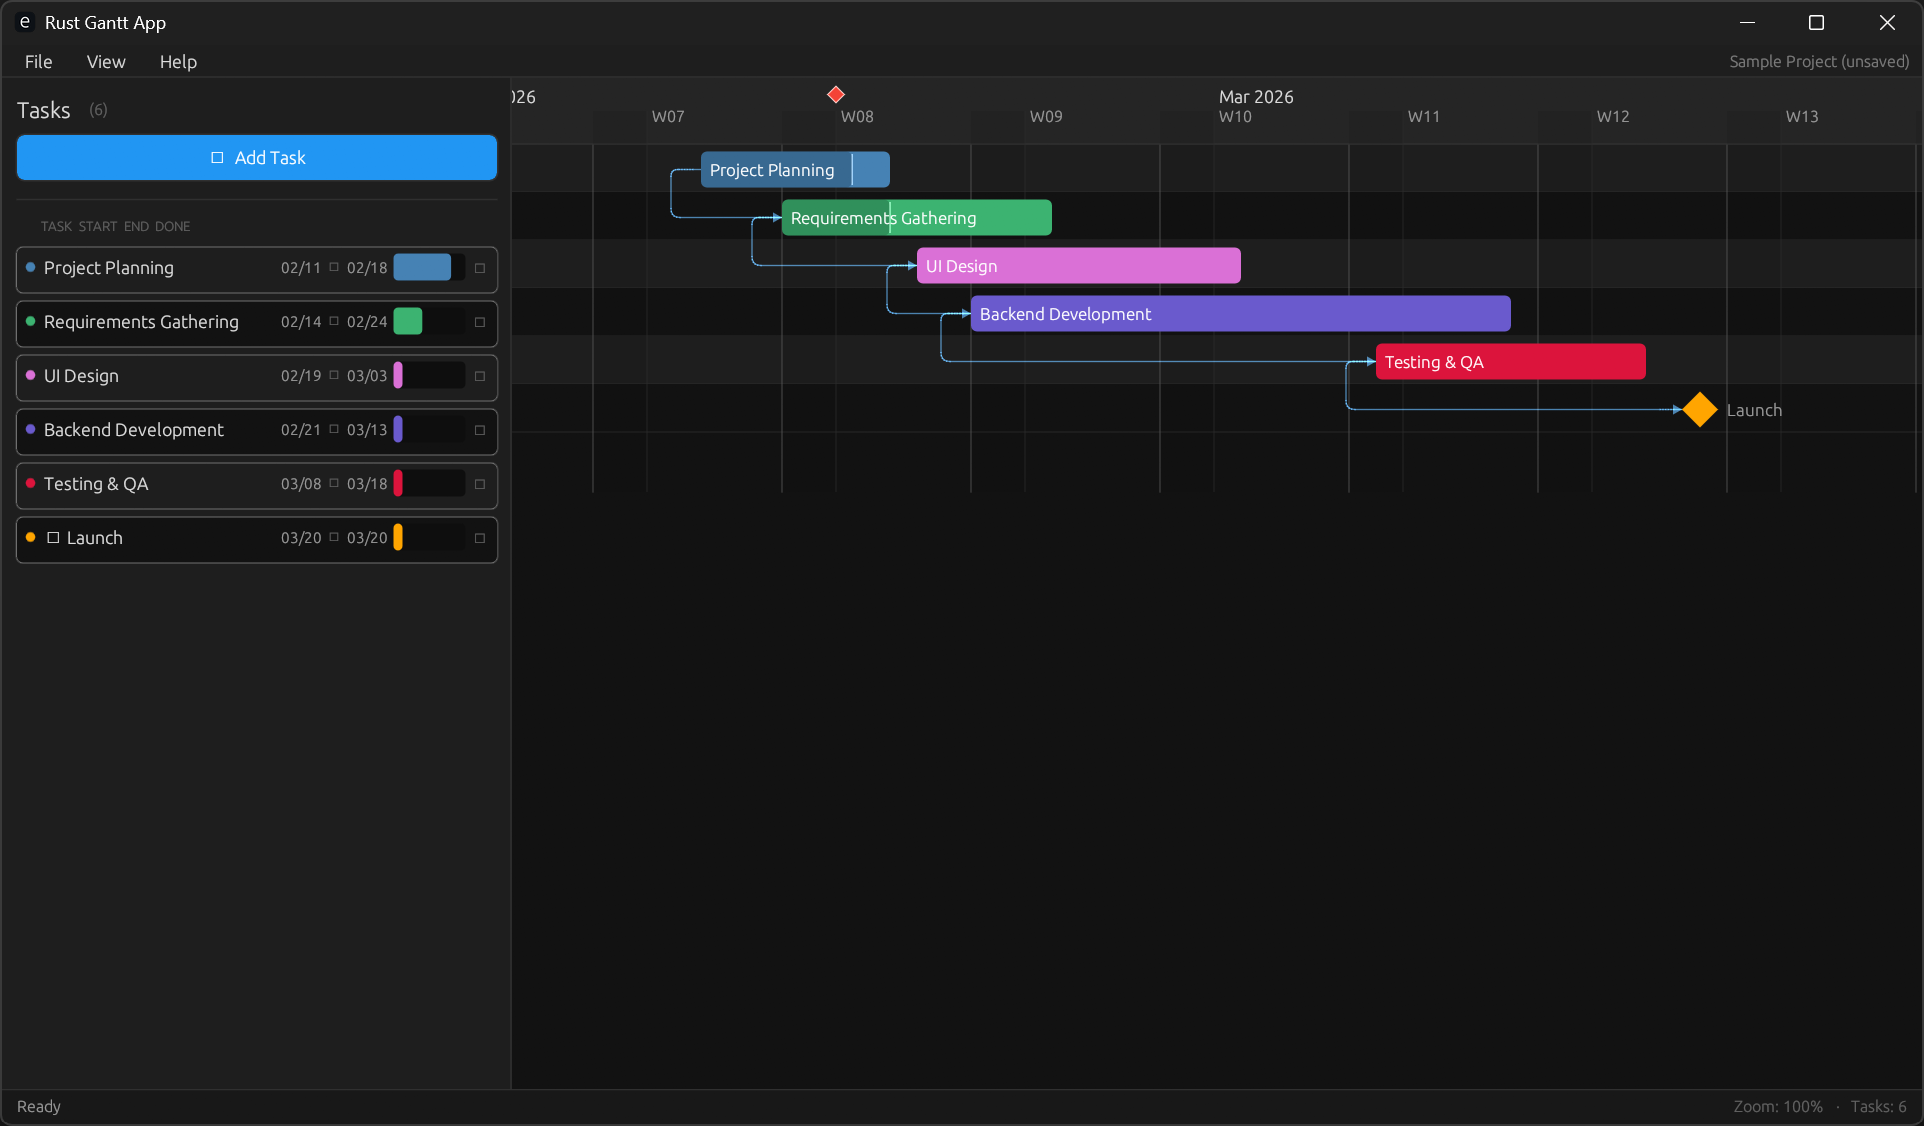
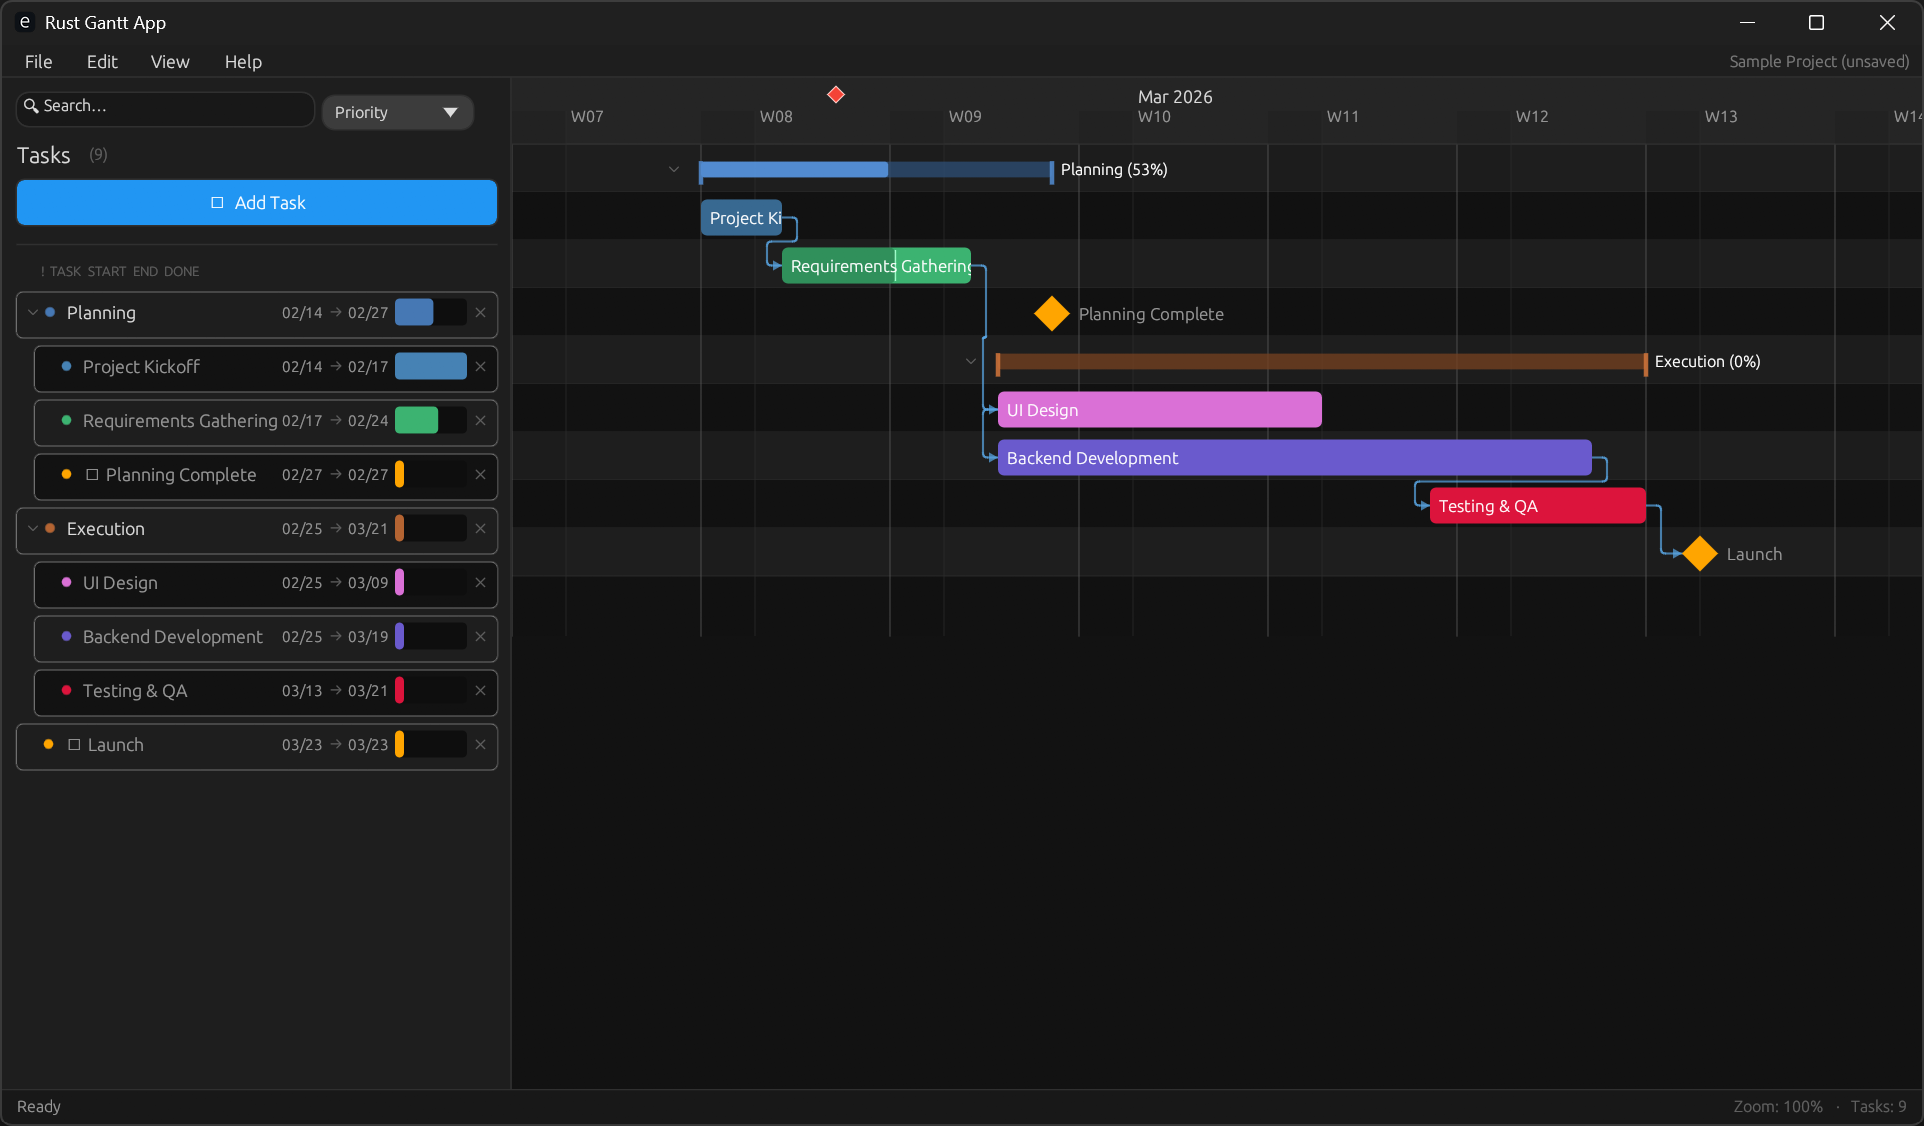
release: v0.2.0

diff --git a/src/ui/task_editor.rs b/src/ui/task_editor.rs
@@ -159,7 +159,7 @@ pub fn show_task_editor(
 
         // ── Dates ───────────────────────────────────────────────────
         // For parent tasks, dates are auto-calculated from children (read-only).
-        let is_parent_task = all_tasks.iter().any(|t| t.parent_id == Some(task_id));
+        let is_parent_task = task.has_children(all_tasks);
         if is_parent_task {
             ui.label(RichText::new("Dates").size(10.0).color(theme::text_dim()).strong());
             ui.horizontal(|ui| {
@@ -418,7 +418,7 @@ pub fn show_task_editor(
                 if t.id == task_id { return false; }
                 if already_linked.contains(&t.id) { return false; }
                 // Don't link to/from summary (parent) tasks
-                let t_is_parent = all_tasks.iter().any(|c| c.parent_id == Some(t.id));
+                let t_is_parent = t.has_children(all_tasks);
                 if t_is_parent { return false; }
                 // If this task is a child, restrict to siblings (same parent)
                 if let Some(my_parent) = task.parent_id {

diff --git a/src/app.rs b/src/app.rs
@@ -420,10 +420,19 @@ impl GanttApp {
     pub fn delete_task(&mut self, id: Uuid) {
         self.undo_history.push(&self.project.tasks, &self.project.dependencies);
         // Also delete all children of this task
-        let children_ids: Vec<Uuid> = self.project.tasks.iter()
-            .filter(|t| t.parent_id == Some(id))
-            .map(|t| t.id)
-            .collect();
+        let children_ids: Vec<Uuid> = self
+            .project
+            .tasks
+            .iter()
+            .find(|t| t.id == id)
+            .map(|parent| {
+                parent
+                    .children_ids(&self.project.tasks)
+                    .into_iter()
+                    .map(|child| child.id)
+                    .collect()
+            })
+            .unwrap_or_default();
         self.project.tasks.retain(|t| t.id != id && t.parent_id != Some(id));
         self.project.dependencies.retain(|d| {
             d.from_task != id && d.to_task != id

diff --git a/src/ui/gantt_chart.rs b/src/ui/gantt_chart.rs
@@ -236,7 +236,7 @@ pub fn show_gantt_chart(
                 // Safety: split borrow so we can read siblings while mutating task.
                 let task_id = tasks[task_i].id;
                 let task_parent_id = tasks[task_i].parent_id;
-                let is_parent_task = tasks.iter().any(|t| t.parent_id == Some(task_id));
+                let is_parent_task = tasks[task_i].has_children(tasks);
 
                 let y = *animated_row_y.get(&task_id).unwrap_or(
                     &(origin.y + hh + vis_i as f32 * (row_height + row_padding) + row_padding),

diff --git a/src/ui/task_table.rs b/src/ui/task_table.rs
@@ -139,7 +139,7 @@ pub fn show_task_table(
                 }
 
                 let is_selected = selected_task == Some(task.id);
-                let is_parent = tasks.iter().any(|t| t.parent_id == Some(task.id));
+                let is_parent = task.has_children(tasks);
                 let is_child = task.parent_id.is_some();
                 let is_overdue =
                     !task.is_milestone && task.end < today && task.progress < 1.0;

diff --git a/CHANGELOG.md b/CHANGELOG.md
@@ -1,0 +1,35 @@
+# Changelog
+
+All notable changes to this project are documented in this file.
+
+## [0.2.0] - 2026-02-19
+
+### Added
+
+- Task hierarchy support with parent/child relationships (one nesting level).
+- Summary (parent) bars rendered as bracket-style bars with aggregated progress.
+- Collapse/expand controls for parent groups in both chart and task table.
+- Right-click task context menu actions for adding subtasks and deleting tasks/groups.
+- Subtask creation flow that inserts under the parent and keeps grouped ordering.
+- Dependency picker in the task editor with type selection (FS/SS/FF/SF).
+- Dependency creation from the editor with scoped candidates:
+  - Child task: only siblings in the same parent group.
+  - Top-level task: only other top-level tasks.
+- In-editor dependency kind help text/tooltips.
+- Phosphor icon font integration for consistent icon rendering.
+
+### Changed
+
+- Parent task dates and progress are now auto-calculated from children and shown read-only.
+- Parent date ranges are recalculated after relevant task/dependency edits.
+- Task deletion cascades to child tasks and related dependencies.
+- Sidebar editor dependency controls improved for discoverability.
+- App version bumped to `0.2.0`.
+
+### Fixed
+
+- Dependency arrow routing in overlap/backtrack cases to avoid crossing task bars.
+- Context-menu positioning now stays fixed at click location.
+- Sidebar width growth caused by dependency picker combo sizing.
+- Missing-glyph/square icon issues by replacing unsupported glyphs and using icon font fallbacks.
+- Build warnings from unused hierarchy helper methods.

diff --git a/RELEASE_NOTES_0.2.0.md b/RELEASE_NOTES_0.2.0.md
@@ -1,0 +1,33 @@
+# Rust Gantt App v0.2.0
+
+This release introduces hierarchical planning and a much smoother dependency workflow.
+
+## Highlights
+
+- **Task hierarchy**: Create subtasks under a parent task (single-level nesting).
+- **Summary bars**: Parent tasks are rendered as summary bars with aggregate timeline + progress.
+- **Collapse/expand groups**: Hide/show child rows in both chart and task list.
+- **Task context menus**: Right-click tasks for quick actions (add subtask, delete task/group).
+- **Dependency picker in editor**: Add FS/SS/FF/SF links without Shift+drag.
+  - Child tasks can only link to siblings in the same group.
+  - Top-level tasks can only link to top-level tasks.
+- **More stable UI**:
+  - Fixed dependency-arrow routing edge cases.
+  - Fixed drifting context menu placement.
+  - Fixed sidebar width expansion caused by control sizing.
+  - Replaced unstable glyphs with reliable icon rendering.
+
+## Compatibility / Notes
+
+- Project file format remains JSON-based (`.gantt.json`).
+- Existing projects continue to load; parent date/progress values are derived from children when applicable.
+
+## Build
+
+```bash
+cargo run --release
+```
+
+## Suggested Git tag
+
+`v0.2.0`
